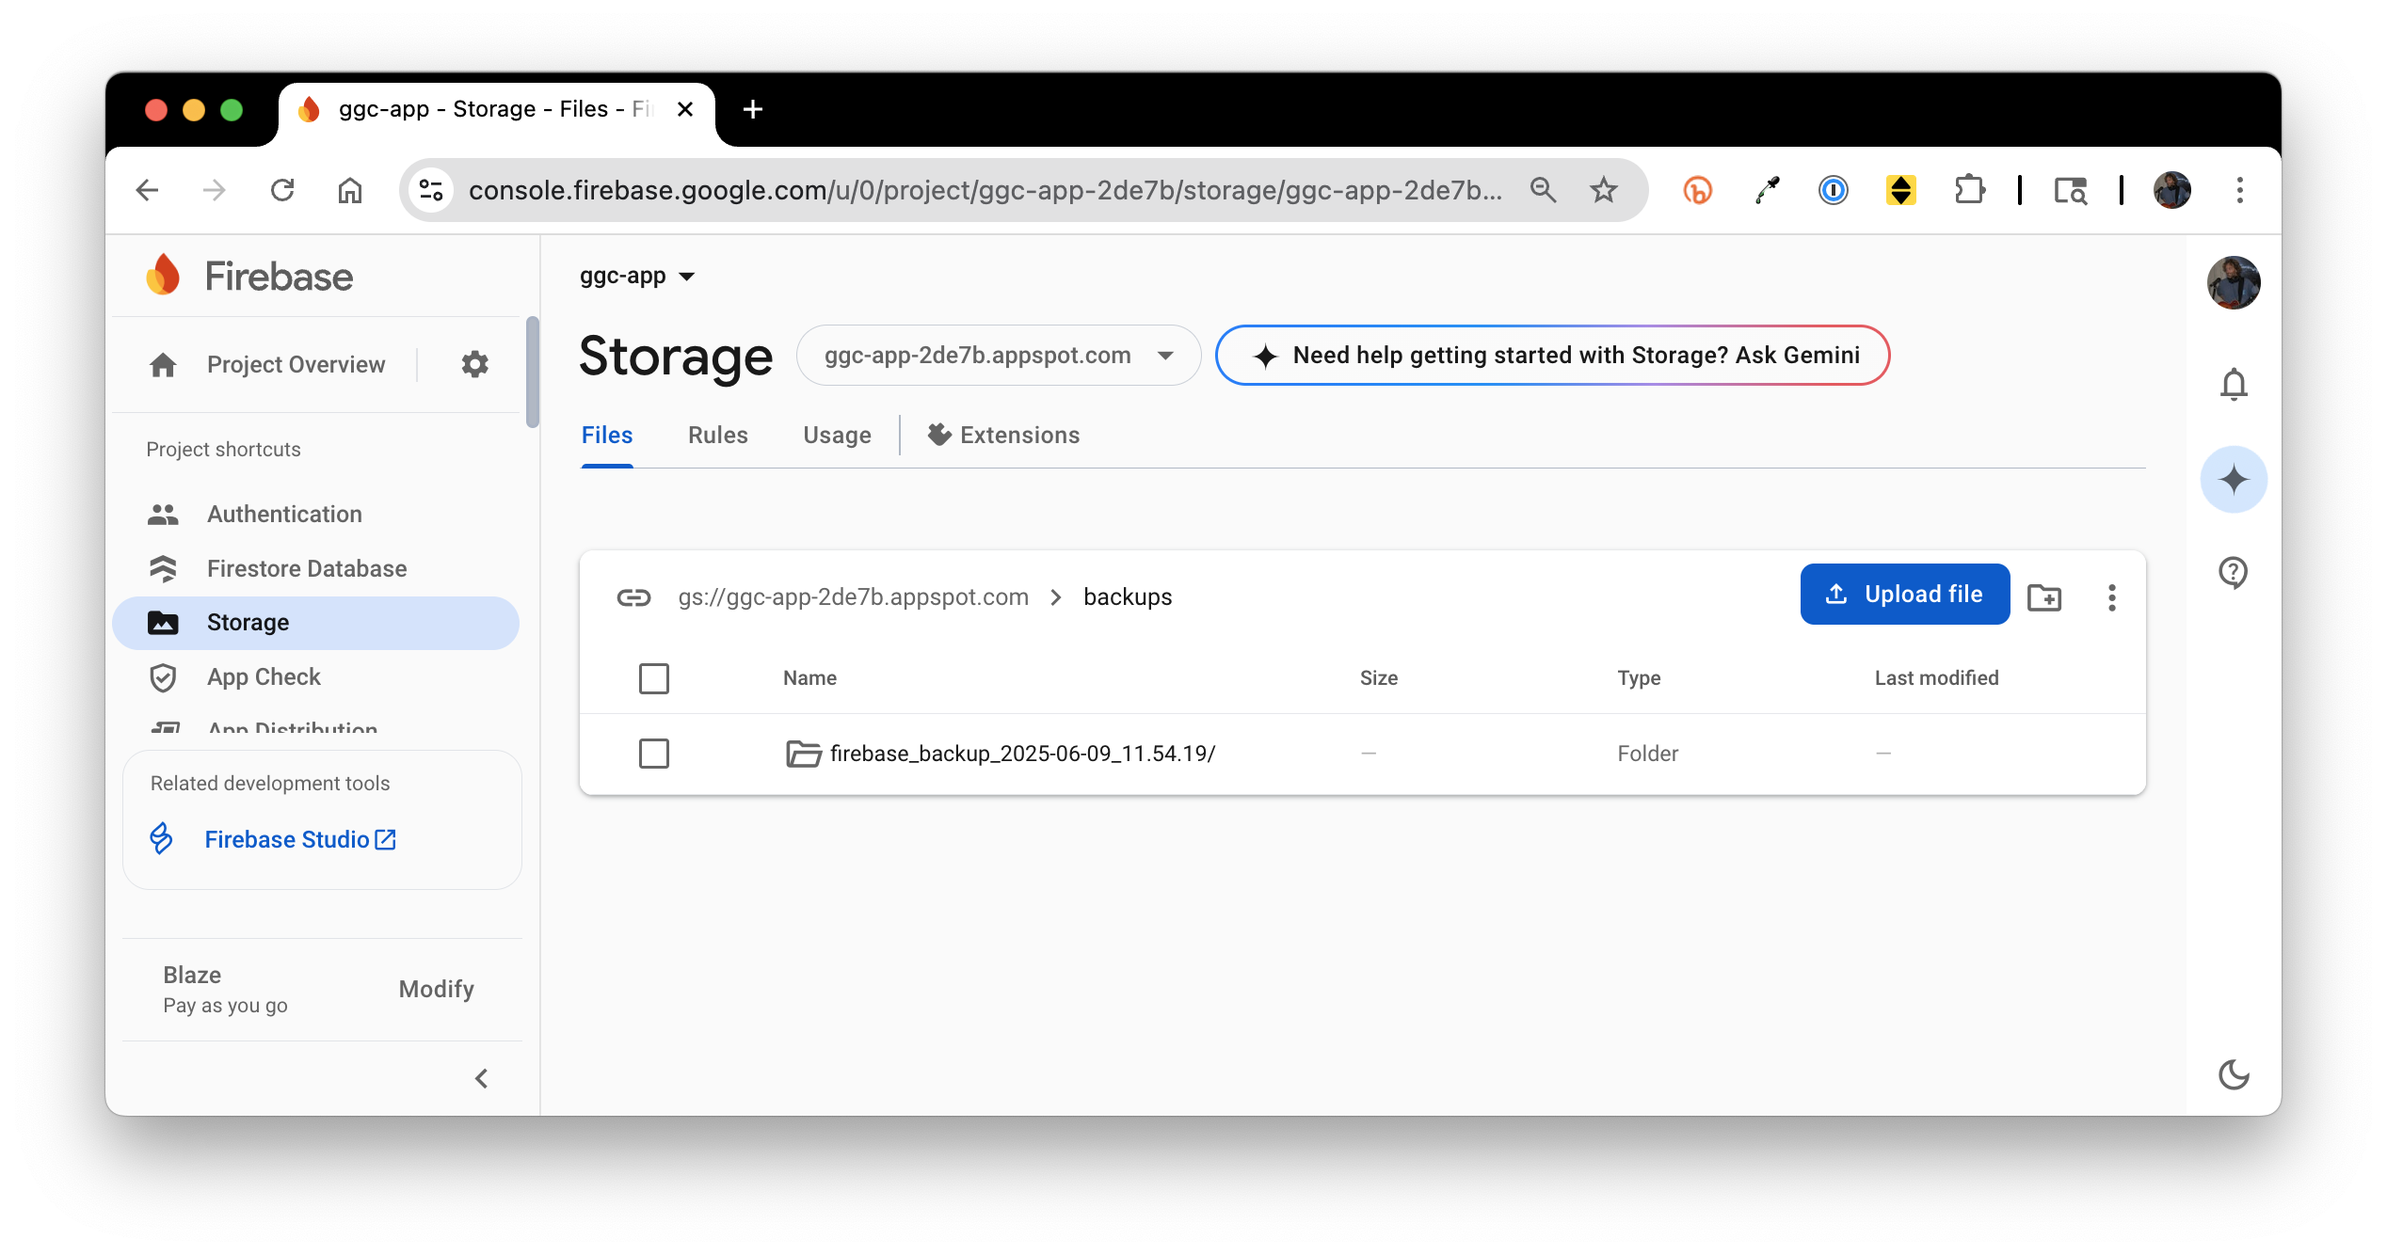
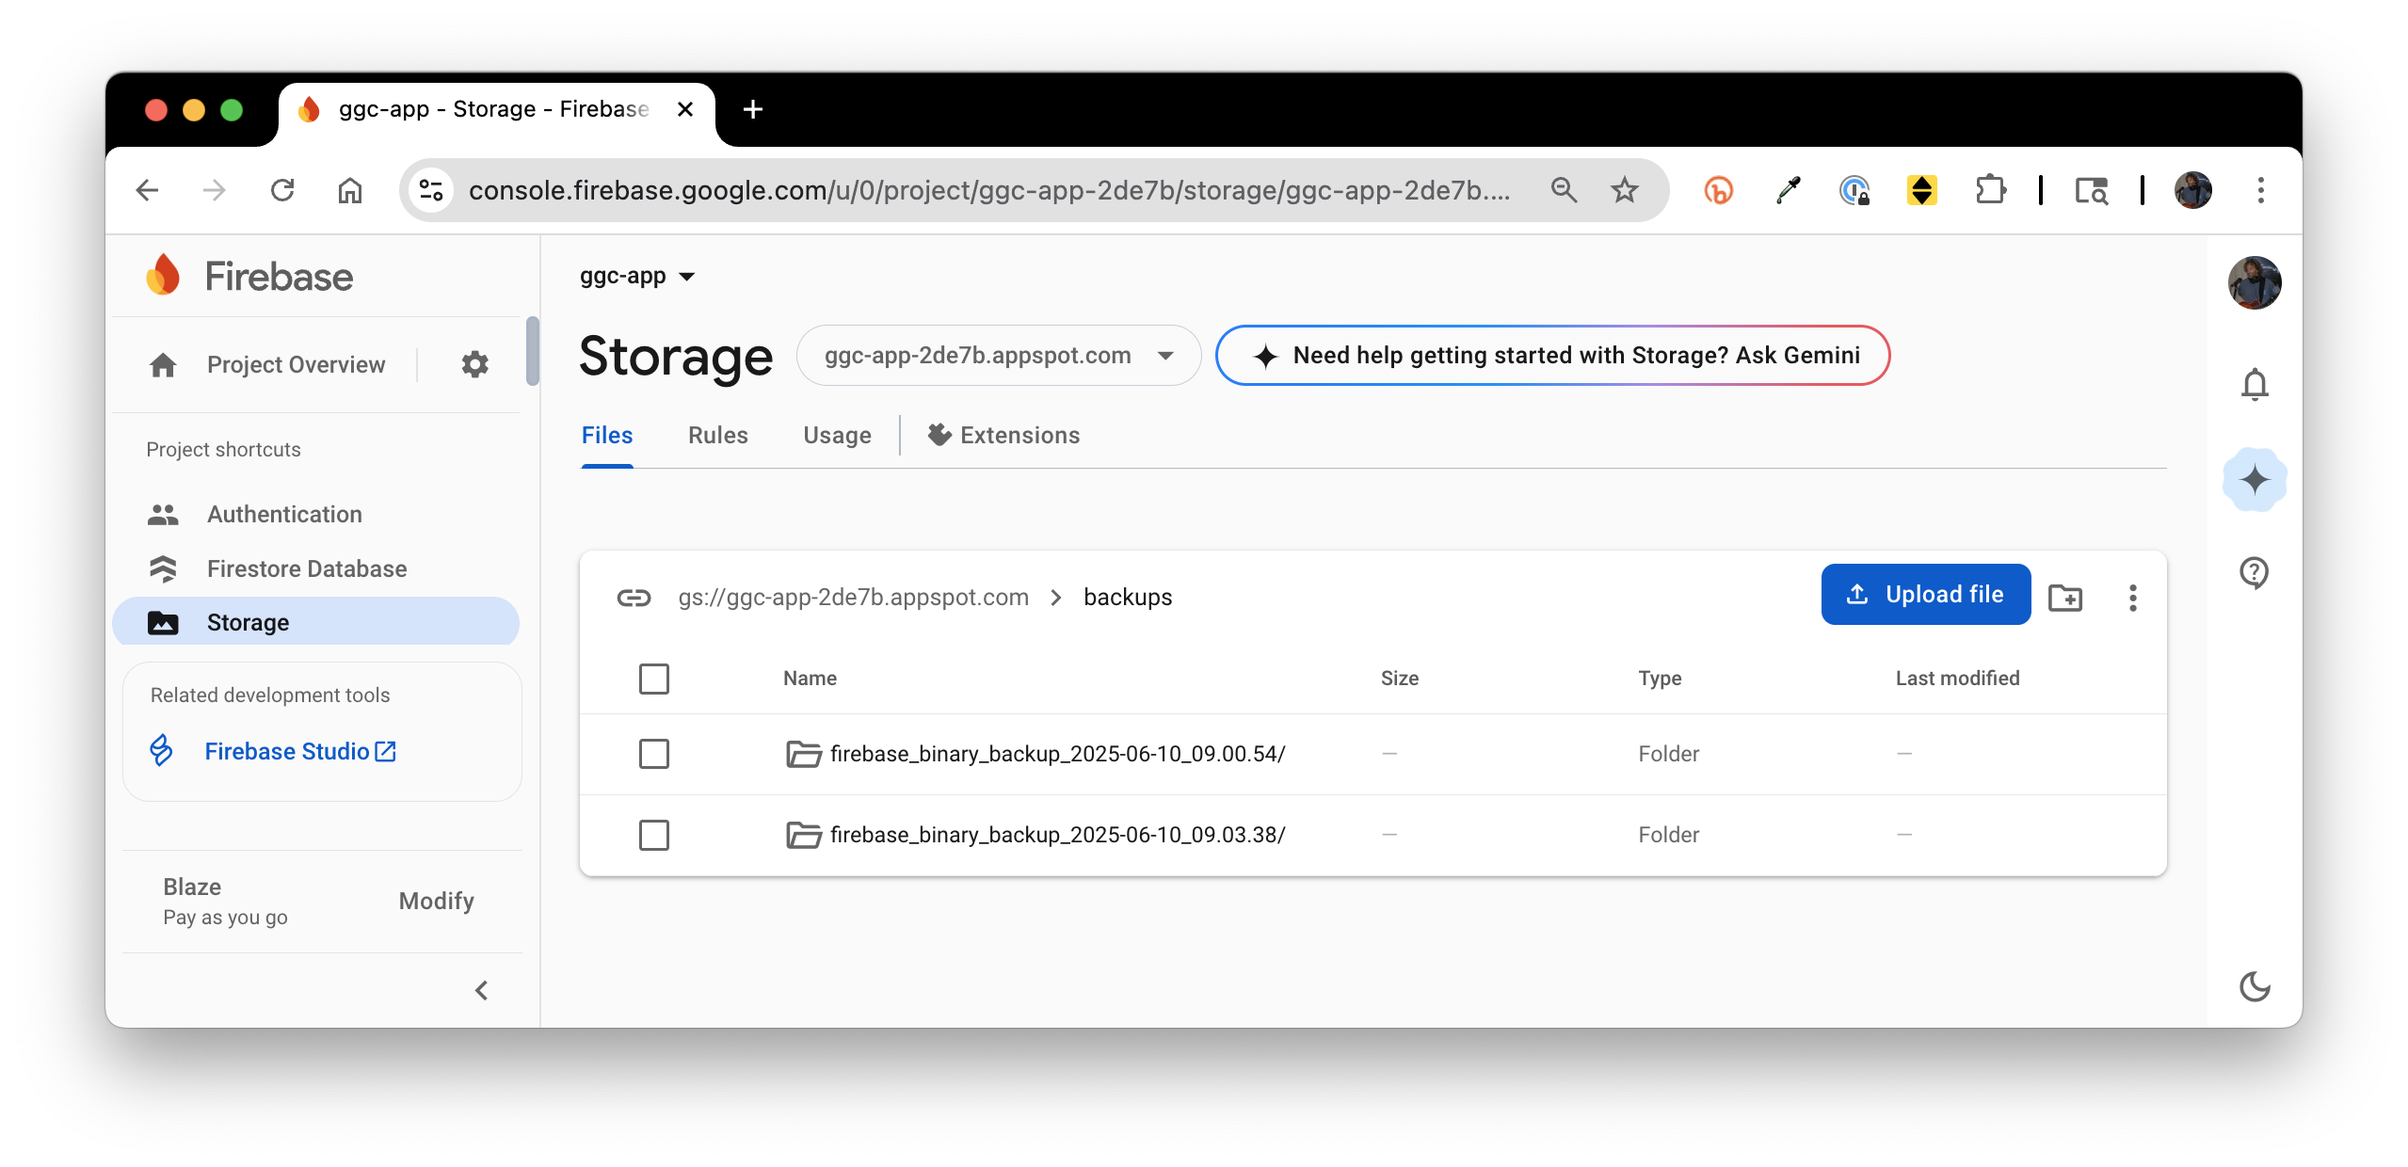
udpates to testing and may report

diff --git a/sidebars.js b/sidebars.js
@@ -81,6 +81,11 @@ const sidebars = {
       items: [
         {
           type: 'link',
+          label: 'May 2025',
+          href: 'https://docs.google.com/document/d/1MIZPmjLCnuTUvT5gNUgO_E-u8ksb8gt8V1SCZM12Xs8/edit?usp=sharing',
+        },
+        {
+          type: 'link',
           label: 'April 2025',
           href: 'https://docs.google.com/document/d/1IwCf6fvT_NJnMSW1TxJ7lQJFCXyfXusoq9IbDTziMf8/edit?usp=sharing',
         },

diff --git a/docs/develop/scripts.md b/docs/develop/scripts.md
@@ -1,5 +1,5 @@
 ---
-hide_table_of_contents: false
+hide_table_of_contents: true
 # sidebar_label: "Welcome"
 ---
 
@@ -7,16 +7,18 @@ hide_table_of_contents: false
 
 GGC development is supported by a number of Unix shell scripts. All scripts are located in the top-level directory, are named starting with "run", and use snake case to separate words in the script name.  
 
-| Name                 | Action                                                                                                                                                                                                                                                            |
-|----------------------|-------------------------------------------------------------------------------------------------------------------------------------------------------------------------------------------------------------------------------------------------------------------|
-| run_build_runner.sh  | Invokes the builder running code generation facility, needed for entities using Freezed, JSON Serializable, and Riverpod.                                                                                                                                         |
-| run_deploy.sh | Bumps version number, updates release notes, builds the .ipa and .apk files, and deploys the web version.                                                                                                                                                         |
-| run_flutter_clean.sh | After upgrading Flutter or pub.dev packages, the build might fail either during the `pod install` or `xcode build` steps. When this happens, google searches based on the error message often provide bad advice for Flutter developers. Try this script instead. |
-| run_flutter_downgrade.sh | In the event that a new release breaks things, you can use this script to back out to the previous release of flutter.                                                                                                                                            |
-| run_lakos.sh | Generates a visualization of the dependency graph.                                                                                                                                                                                                                |
-| run_monarch.sh       | A standard way to invoke the Monarch UI display system.                                                                                                                                                                                                           |
-| run_pub_add.sh       | If you are rebuilding the ggc_app with a fresh install of Flutter, this script installs all of the packages in one command. Before running it, make sure the list of packages is up to date!                                                                      |
-| run_rebuild_podfile.sh | If the build fails due to a podfile problem, this script rebuilds it appropriately.                                                                                                                                                                               |
-| run_tests.sh | Runs the entire integration test suite.                                                                                                                                                                                                                           |
-| run_tests_single.sh | Runs a single integration test.                                                                                                                                                                                                                                   |
-| run_tool_versions.sh | Prints out the names and versions of important tech stack components. Used to ensure that all developers are running the same tech stack. Also useful when trying to diagnose why the system builds and runs for one developer but produces errors for another.   |                                                 |
+| Name                         | Action                                                                                                                                                                                                                                                            |
+|------------------------------|-------------------------------------------------------------------------------------------------------------------------------------------------------------------------------------------------------------------------------------------------------------------|
+| run_backup.sh                | Invokes the offsite backup mechanism. See [Backups](backups.md) for details.                                                                                                                                                                                      |
+| run_build_runner.sh          | Invokes the builder running code generation facility, needed for entities using Freezed, JSON Serializable, and Riverpod.                                                                                                                                         |
+| run_cloc.sh                  | Invokes [CLOC](https://github.com/AlDanial/cloc) to obtain the current size of the system.   Note you must have installed CLOC first.                                                                                                                             |                                                                                                                                                                       |
+| run_deploy.sh                | Bumps version number, updates release notes, builds the .ipa and .apk files, and deploys the web version.                                                                                                                                                         |
+| run_emulators.sh             | Starts up the Firebase emulators to support interactive development using test data.  See [Development using emulators](quality-assurance/testing.md#development-using-emulators) for details.                                                                    |
+| run_flutter_clean.sh         | After upgrading Flutter or pub.dev packages, the build might fail either during the `pod install` or `xcode build` steps. When this happens, google searches based on the error message often provide bad advice for Flutter developers. Try this script instead. |
+| run_flutter_downgrade.sh     | In the event that a new release breaks things and you have not followed the recommendation to install [FVM](installation.md#fvm), you can try using this script to back out to the previous release of flutter.                                                   |
+| run_pub_add.sh               | If you are rebuilding the ggc_app with a fresh install of Flutter, this script installs all of the packages in one command. Before running it, make sure the list of packages is up to date!                                                                      |
+| run_rebuild_ipa.sh           | Rebuilds just the ipa file for deployment.                                                                                                                                                                                                                        |
+| run_rebuild_podfile.sh       | If the build fails due to a podfile problem, this script rebuilds it appropriately.                                                                                                                                                                               |
+| run_tests_emulator.sh        | Runs the entire integration test suite.   See [Running tests with the emulator](quality-assurance/testing.md#run_tests_emulatorsh) for details.                                                                                                                   |
+| run_tests_single_emulator.sh | Runs a single integration test.   See [Running a single test with the emulator](quality-assurance/testing.md#run_tests_single_emulatorsh) for details.                                                                                                            |
+| run_tool_versions.sh         | Prints out the names and versions of important tech stack components. Used to ensure that all developers are running the same tech stack. Also useful when trying to diagnose why the system builds and runs for one developer but produces errors for another.   |                                                 |

diff --git a/docs/develop/backups.md b/docs/develop/backups.md
@@ -9,7 +9,7 @@ Our backup approach involves both automated daily backups by Firebase as well as
 
 ## Automated daily backups
 
-We use the Cloud Firestore scheduled backup system, documented [here](https://firebase.google.com/docs/firestore/backups). Through this mechanism, we keep snapshots of the database for the past 8 days. Here is a screenshot of the console showing these backups:
+We use the Cloud Firestore scheduled backup system for automated daily backups. You can find the official documentation [here](https://firebase.google.com/docs/firestore/backups). Using this mechanism, we keep snapshots of the database for the past 8 days. Here is a screenshot of the console showing these backups:
 
 <img src="/img/develop/backup-8-days.png"/>
 
@@ -23,43 +23,47 @@ There are some disaster scenarios that this mechanism does not cover:
 
 ## The run_backup.sh script
 
-To provide a mechanism for downloading both the Firebase collections and the Google Cloud Storage files for off-site storage, we have the `run_backup.sh` script. Once installed by someone with appropriate Firebase privileges (currently only Philip), invoking the script results in the following:
+To provide a mechanism for downloading both the Firebase collections and the Google Cloud Storage files for off-site storage, we have the `run_backup.sh` script. When invoked by someone with appropriate Firebase privileges (currently Philip), invoking the script results in the following:
 
 ```
 ./run_backup.sh
-11:54:19 Starting firestore export to cloud storage
-11:54:39 Starting download of cloud storage
-11:54:55 Starting download of Firebase collections as JSON
-11:56:40 Backup completed. See 2025-06-09_11.54.19.backup.log for details.
-11:56:40 Next step: compress and upload backups/2025-06-09_11.54.19 to external storage
+09:03:38 Exporting firebase DB to cloud storage
+09:03:43 Downloading GGC cloud storage
+09:03:59 Downloading firebase index definitions
+09:04:01 Downloading Firebase collections as JSON
+09:05:27 Backup completed. See ../ggc-offsite-backups/2025-06-10_09.03.38/2025-06-10_09.03.38.backup.log for details.
+09:05:27 Next step: compress and upload ../ggc-offsite-backups/2025-06-10_09.03.38 to external storage
 ```
 
 As the script output indicates, this backup process involves the following:
 
-1. All firebase collections are copied (in binary format) to a "subbucket" in the root Google Cloud Storage bucket for GGC.
-2. The root Google Cloud Storage bucket for the GGC app is downloaded to a local directory. This root bucket contains both the binary format backup of the GGC collections, and all the images uploaded by users for the GGC app. 
-3. Next, the firebase collections are downloaded in JSON format. This makes it possible to manually inspect and potentially restore individual documents if needed.
-4. The script concludes by notifying the user to compress and upload the directory to external storage.  The script also creates a log file containing output from the various commands. 
+1. The Firebase collections are exported (in binary format) to a "subbucket" in GGC's root Google Cloud Storage bucket.
+2. The root GGC Google Cloud Storage bucket (including all its subbuckets) are downloaded to a local directory. This directory now contains both the binary format backup of the GGC collections, and all the images uploaded by users for the GGC app.
+3. The Firebase index definitions are downloaded in JSON format.
+4. The Firebase collections are downloaded in JSON format. This makes it possible to manually inspect and potentially restore individual documents if needed.
 
-The script currently takes about 2 minutes to execute. When it concludes, there will be a new directory (named something like "2025-06-09_11.54.19") in an adjacent "backups" directory containing a JSON file with the collection documents in JSON format (named something like "2025-06-09_11.54.19.json"), as well as a directory containing a copy of the GGC Google Cloud Storage root bucket (named "ggc-app-2de7b.appspot.com"). For example:
+The script currently takes about 2 minutes to execute. When it concludes, there will be a directory named "ggc-offsite-backups" adjacent to the GGC app top-level directory. It will contain a subdirectory (named something like "2025-06-09_11.54.19") with the newly created backup. This backup subdirectory contains two JSON files (one containing the collections, and one containing the index definitions) and a directory containing a copy of the GGC Google Cloud Storage root bucket (named "ggc-app-2de7b.appspot.com"). For example:
 
-<img src="/img/develop/backup-local-dir.png"/>
+<img src="/img/develop/ggc-offsite-backups.png"/>
+
+As you can see, the backup directory is (currently) about 100MB (uncompressed) and 85MB (compressed), both of which are too large to commit to a GitHub repository.  For the time being Philip will upload a compressed version of the directory to his personal Google Drive.
 
 Note that one result of running the script is to create a new bucket (folder) in Google Cloud Storage containing the binary backup. This folder is timestamped:
 
 <img src="/img/develop/backup-cloud-storage-dir.png"/>
 
-There is no automated mechanism for deletion of these buckets. This means that each time you run this script, you are adding a new snapshot to this directory and the download will include any previous snapshots from prior runs. It is up to a GGC admin to periodically "garbage collect" old backups from this directory.
+There is (intentionally) no automated mechanism for deletion of these backup buckets. This means that each time you run this script, you are adding a new snapshot to this directory and the download will include any previous snapshots from prior runs. It is up to a GGC admin to periodically "garbage collect" old backups from this directory. 
 
 ## Installation
 
-There is "installation" associated with the automated daily backups; this is managed through the Google Cloud Console. 
+There is no "installation" associated with the automated daily backups; this is managed through the Google Cloud Console. 
 
-To run the `run_backups.sh` script, you must:
+To install the third party libraries required to run the `run_backups.sh` script, you must:
 
 1. Install gcloud.  Installation instructions are [here](https://cloud.google.com/sdk/docs/downloads-interactive)
 2. Configure gcloud by running `gcloud init`.
-3. Install [@endran/firestore-export-import](https://www.npmjs.com/package/@endran/firestore-export-import). Note that you need to create a json file that you store locally with service account information. See the "Notes" section for information on how to do this. Please name this file "ggc-app-service-account.json" so that it is automatically git-ignored.
+3. Install [@endran/firestore-export-import](https://www.npmjs.com/package/@endran/firestore-export-import) by running `npm install @endran/firestore-export-import --save`.
+4. Create a local json file with service account information, as documented in the [Firestore-Export-Import Notes](https://gitlab.com/endran/firestore-export-import#notes). **Please name this file "ggc-app-service-account.json" so that it is git-ignored.** This service account information must **not** be uploaded to GitHub.
 
 
 

diff --git a/docs/develop/quality-assurance/testing.md b/docs/develop/quality-assurance/testing.md
@@ -304,7 +304,7 @@ That said, low coverage definitely implies low test quality: if you're not even 
 If you want to do development by manipulating the test fixture database rather than the live production database, you need to first start the Firebase Emulators in stand-alone mode:
 
 ```bash
-firebase emulators:start --only auth,firestore
+./run_emulators.sh
 ```
 
 The emulators will start, and you will see something like the following output:
